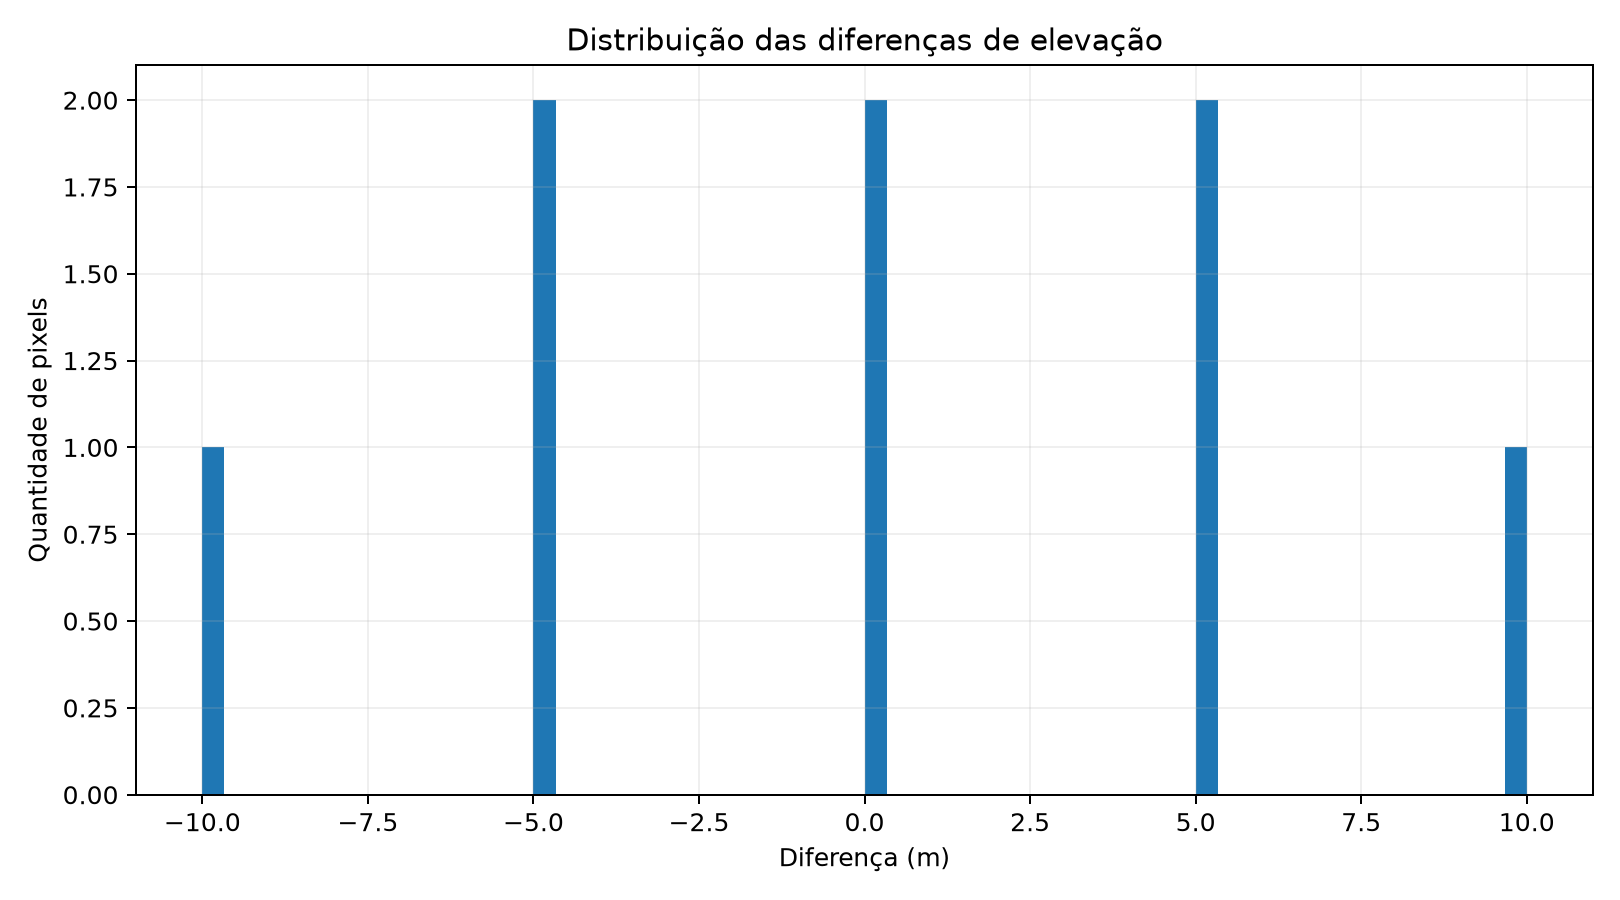
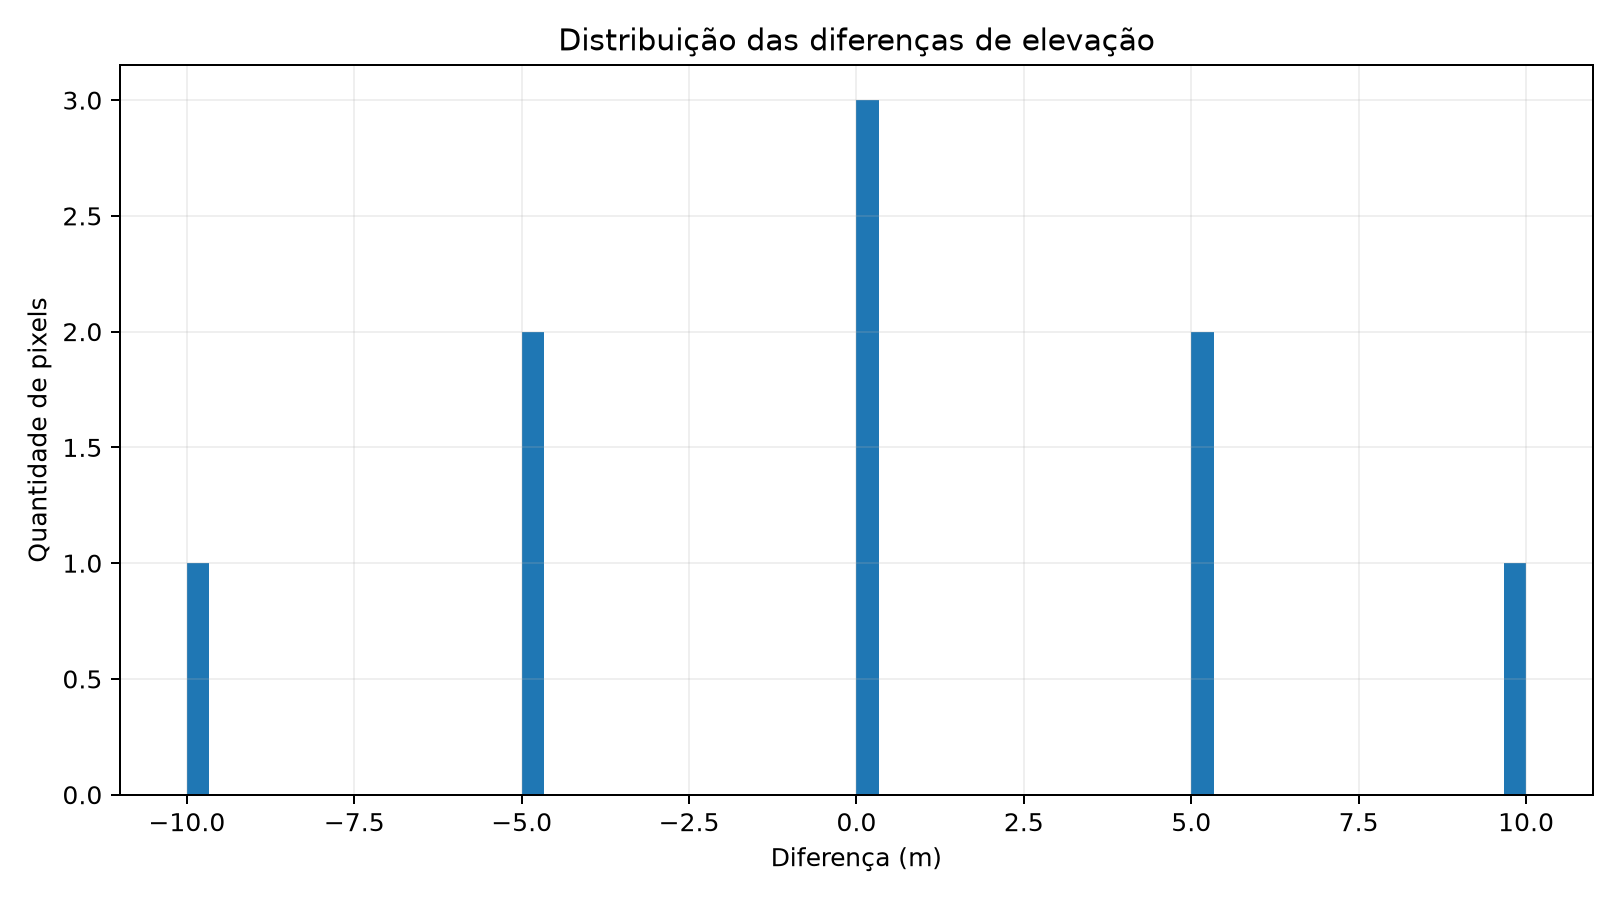
Add files via upload

diff --git a/analise-forense-terravision-matheus--main/MineVision-GitHub/analise-forense-terravision-matheus--main/README.md b/analise-forense-terravision-matheus--main/MineVision-GitHub/analise-forense-terravision-matheus--main/README.md
@@ -1,0 +1,90 @@
+# MineVision — análise exploratória de alterações topográficas
+
+Projeto acadêmico para comparar dois Modelos Digitais de Elevação (MDE/DEM) de uma mesma área e produzir:
+- raster GeoTIFF de diferença (`posterior - anterior`);
+- mapa PNG da diferença;
+- histograma das diferenças;
+- estatísticas em CSV;
+- relatório em Markdown com limitações e metadados.
+
+**Estudo de caso:** Serra dos Carajás, Pará, Brasil.
+
+## Importante: o que este projeto mede
+O programa calcula diferenças entre dois rasters de elevação. Ele não identifica sozinho a causa da diferença e não prova que toda variação seja mineração. Diferenças podem resultar de datas, sensores, resolução, georreferenciamento, vegetação, construções, água, erros verticais e processamento.
+
+O Copernicus DEM GLO-30 é um **modelo digital de superfície (MDS/DSM)**, que inclui vegetação e estruturas, e seus dados foram adquiridos principalmente entre 2011 e 2015. Portanto, não use duas cópias/versões do mesmo produto como se fossem épocas distintas. Para um estudo temporal, obtenha dois produtos com datas de aquisição realmente diferentes e documentadas. Se só houver um MDE confiável, apresente o trabalho como análise do relevo atual, não como mudança temporal comprovada.
+
+## Requisitos
+- Python 3.10 ou superior
+- Windows, Linux ou macOS
+- Dependências: `rasterio`, `numpy`, `matplotlib`
+
+## Instalação (Windows / CMD)
+Abra o CMD na pasta do projeto:
+
+```bat
+py -m venv .venv
+.venv\Scripts\activate
+python -m pip install --upgrade pip
+pip install -r requirements.txt
+```
+
+## Executar
+```bat
+python main.py
+```
+
+A interface permite selecionar:
+1. MDE anterior (GeoTIFF `.tif` ou `.tiff`);
+2. MDE posterior (GeoTIFF `.tif` ou `.tiff`);
+3. pasta de saída.
+
+Clique em **Analisar**. Os resultados serão salvos na pasta escolhida.
+
+## Dados de elevação
+Fontes para procurar dados e registrar a proveniência:
+- Copernicus DEM: https://dataspace.copernicus.eu/explore-data/data-collections/copernicus-contributing-missions/collections-description/COP-DEM
+- Documentação de DEM: https://documentation.dataspace.copernicus.eu/APIs/SentinelHub/Data/DEM.html
+- OpenTopography: https://opentopography.org/
+
+O Copernicus DEM GLO-30 tem resolução nominal de 30 m e cobertura global, mas a disponibilidade/acesso e os termos devem ser conferidos no portal. Registre no trabalho o nome do produto, data de aquisição, resolução, sistema de coordenadas, fonte e data de download.
+
+## Como interpretar
+O raster de diferença é calculado como:
+
+`diferença = MDE_posterior - MDE_anterior`
+
+- valor negativo: superfície representada mais baixa no segundo modelo;
+- valor positivo: superfície representada mais alta no segundo modelo;
+- valor próximo de zero: diferença pequena em relação aos dois modelos.
+
+**Não confunda diferença de superfície com volume de minério extraído.** Para estimar volume seriam necessários dados adequados, delimitação da área, alinhamento, resolução e avaliação de incerteza. O projeto não calcula volume.
+
+## Estrutura
+```text
+MineVision/
+├── main.py
+├── requirements.txt
+├── src/
+│   ├── __init__.py
+│   ├── analise.py
+│   ├── relatorio.py
+│   └── interface.py
+├── dados/
+│   ├── entrada/
+│   └── processados/
+├── resultados/
+└── tests/
+    └── test_analise.py
+```
+
+## Limitações conhecidas
+- A comparação exige rasters com cobertura espacial sobreposta.
+- O segundo raster é reprojetado/alinhado à grade do primeiro antes da subtração.
+- O alinhamento não elimina diferenças de qualidade ou de data.
+- A análise é exploratória e não substitui validação de campo ou avaliação geodésica.
+- A área de estudo ainda precisa ser delimitada com coordenadas ou polígono.
+- Nenhum resultado real da Serra dos Carajás é incluído neste pacote sem dados de entrada verificados.
+
+## Citação dos dados
+Siga a licença e a forma de atribuição indicadas pelo provedor do conjunto utilizado. Para Copernicus DEM, consulte a página oficial do produto e registre a referência/DOI quando aplicável.

diff --git a/analise-forense-terravision-matheus--main/resultados/relatorio_minevision.md b/analise-forense-terravision-matheus--main/resultados/relatorio_minevision.md
@@ -1,10 +1,10 @@
 # Relatório — MineVision
 
 ## Identificação
-- **Área de estudo:** Serra dos Carajás, Pará
-- **Data de processamento:** 09/11/2026 10:10
-- **MDE anterior:** `anterior_ausentes.tif`
-- **MDE posterior:** `posterior_ausentes.tif`
+- **Área de estudo:** Serra dos Carajás, Paráshs
+- **Data de processamento:** 09/11/2026 11:51
+- **MDE anterior:** `anterior.tif`
+- **MDE posterior:** `posterior.tif`
 
 ## Objetivo
 Comparar dois modelos digitais de elevação (MDEs) espacialmente alinhados para identificar diferenças na superfície representada.
@@ -19,14 +19,14 @@ Valores negativos indicam uma superfície representada mais baixa no segundo mod
 ## Resultados numéricos
 | Indicador | Resultado |
 |---|---:|
-| Pixels válidos | 8 |
+| Pixels válidos | 9 |
 | Diferença média | 0.000 m |
 | Mediana | 0.000 m |
 | Mínima | -10.000 m |
 | Máxima | 10.000 m |
-| Desvio padrão | 6.124 m |
-| Percentil 5 | -8.250 m |
-| Percentil 95 | 8.250 m |
+| Desvio padrão | 5.774 m |
+| Percentil 5 | -8.000 m |
+| Percentil 95 | 8.000 m |
 
 ## Metadados espaciais
 - **CRS:** EPSG:4326

diff --git a/analise-forense-terravision-matheus--main/MineVision-GitHub/README.md b/analise-forense-terravision-matheus--main/MineVision-GitHub/README.md
@@ -1,0 +1,1 @@
+# analise-forense-terravision-matheus-
